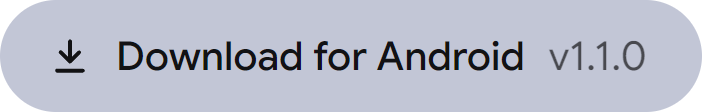
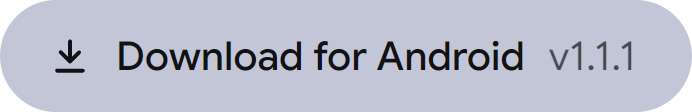
Release 1.1.1

Changed region(s): [[0.1517, 0.3482, 0.9408, 0.6429], [0.0607, 0.3482, 0.1214, 0.5625]]

diff --git a/README.md b/README.md
@@ -6,7 +6,7 @@
 </p>
 
 <p align="center">
-  <a href="https://github.com/TheWrathRF/aduster/releases/latest"><picture><source media="(prefers-color-scheme: dark)" srcset=".github/media/download-dark.png"><img src=".github/media/download-light.png" alt="Download for Android, v1.1.0" height="48"></picture></a>&nbsp;
+  <a href="https://github.com/TheWrathRF/aduster/releases/latest"><picture><source media="(prefers-color-scheme: dark)" srcset=".github/media/download-dark.png"><img src=".github/media/download-light.png" alt="Download for Android, v1.1.1" height="48"></picture></a>&nbsp;
   <a href="https://apps.obtainium.imranr.dev/redirect?r=obtainium://app/%7B%22id%22%3A%22app.aduster%22%2C%22url%22%3A%22https%3A%2F%2Fgithub.com%2FTheWrathRF%2Faduster%22%2C%22author%22%3A%22TheWrathRF%22%2C%22name%22%3A%22Aduster%22%7D"><picture><source media="(prefers-color-scheme: dark)" srcset=".github/media/obtainium-dark.png"><img src=".github/media/obtainium-light.png" alt="Get updates with Obtainium" height="48"></picture></a>
 </p>
 
@@ -103,7 +103,7 @@ phone; list updates run as one daily system job. The rule count is that of the d
 
 Android 13 or later, on a 64-bit ARM (arm64) phone.
 
-1. Download `aduster-1.1.0.apk` from the [latest release](https://github.com/TheWrathRF/aduster/releases/latest)
+1. Download `aduster-1.1.1.apk` from the [latest release](https://github.com/TheWrathRF/aduster/releases/latest)
    and open it on the phone. Allow installing from your browser or file manager when asked. If
    Play Protect warns about an app that is not from the Play Store, choose **Install anyway**.
 2. Open Aduster and tap **Turn on**. Android asks to allow a VPN connection: Aduster uses
@@ -122,9 +122,9 @@ apps from their GitHub releases, with the button at the top of this page.
 Compare the APK's SHA-256 with the `.sha256` file next to it on the release page:
 
 ```sh
-sha256sum aduster-1.1.0.apk                  # Linux
-shasum -a 256 aduster-1.1.0.apk              # macOS
-certutil -hashfile aduster-1.1.0.apk SHA256  # Windows
+sha256sum aduster-1.1.1.apk                  # Linux
+shasum -a 256 aduster-1.1.1.apk              # macOS
+certutil -hashfile aduster-1.1.1.apk SHA256  # Windows
 ```
 
 </details>
